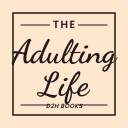
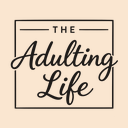
.

Changed region(s): [[0.0625, 0.0938, 0.9375, 0.9062]]

diff --git a/app/manifest.ts b/app/manifest.ts
@@ -10,7 +10,7 @@ export default function manifest(): MetadataRoute.Manifest {
     start_url: "/",
     scope: "/",
     display: "standalone",
-    background_color: "#ffe7ce",
+    background_color: "#fae6d0",
     theme_color: "#000000",
     orientation: "portrait",
     icons: [

diff --git a/app/globals.css b/app/globals.css
@@ -4,7 +4,7 @@
   --background: #ffffff;
   --foreground: #23191b;
 
-  --tal-cream: #ffe7ce;
+  --tal-cream: #fae6d0; /* matches the app icon's cream */
   --tal-cream-soft: #fff5e6;
   --tal-plum: black;
   --tal-plum-dark: #23191b;

diff --git a/app/(app)/admin/audit/AuditView.tsx b/app/(app)/admin/audit/AuditView.tsx
@@ -113,7 +113,7 @@ function pageCardStyle(page: string): {
     map[c] ?? {
       border: "#e6dcd0",
       gradientFrom: "#fff5e6",
-      gradientTo: "#ffe7ce",
+      gradientTo: "#fae6d0",
       chip: "black",
     }
   );
